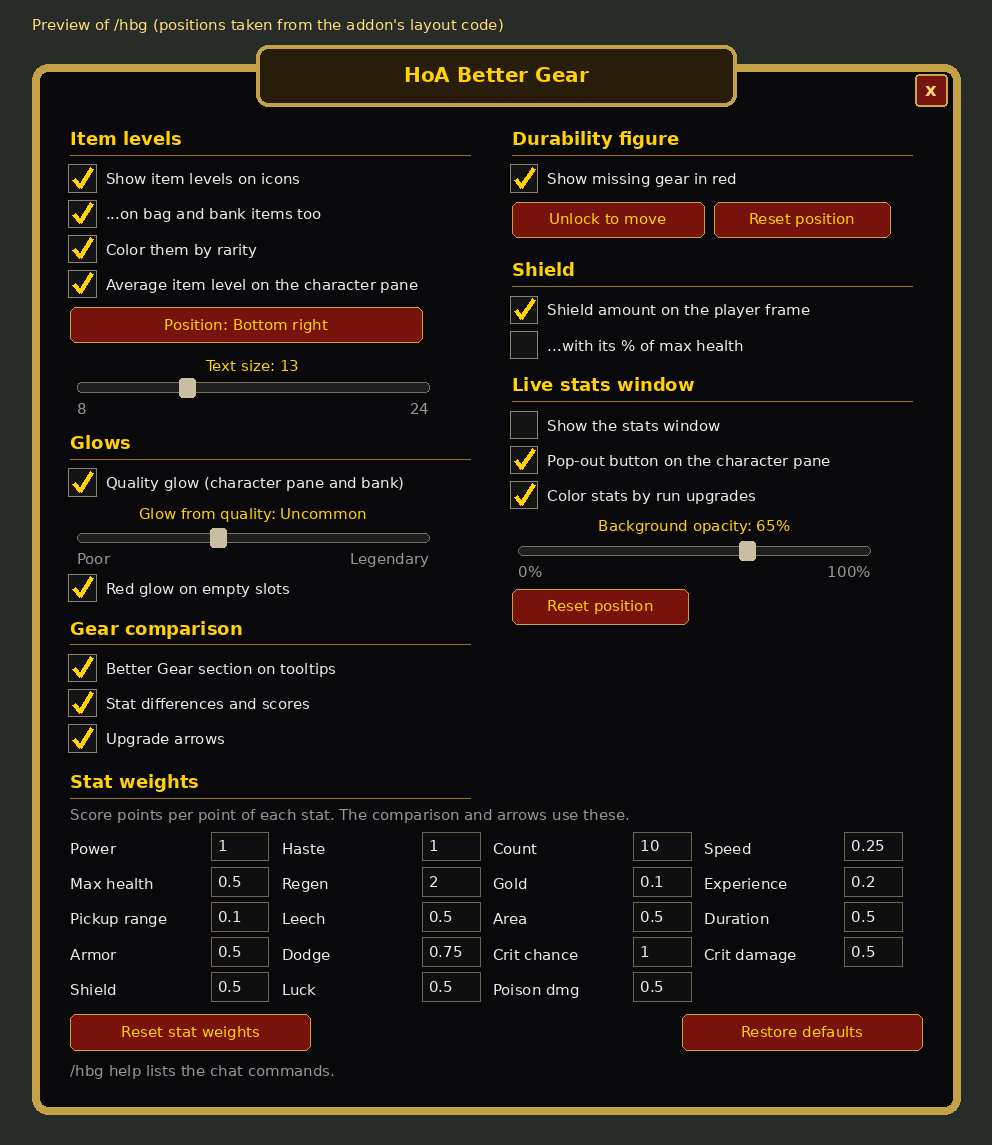
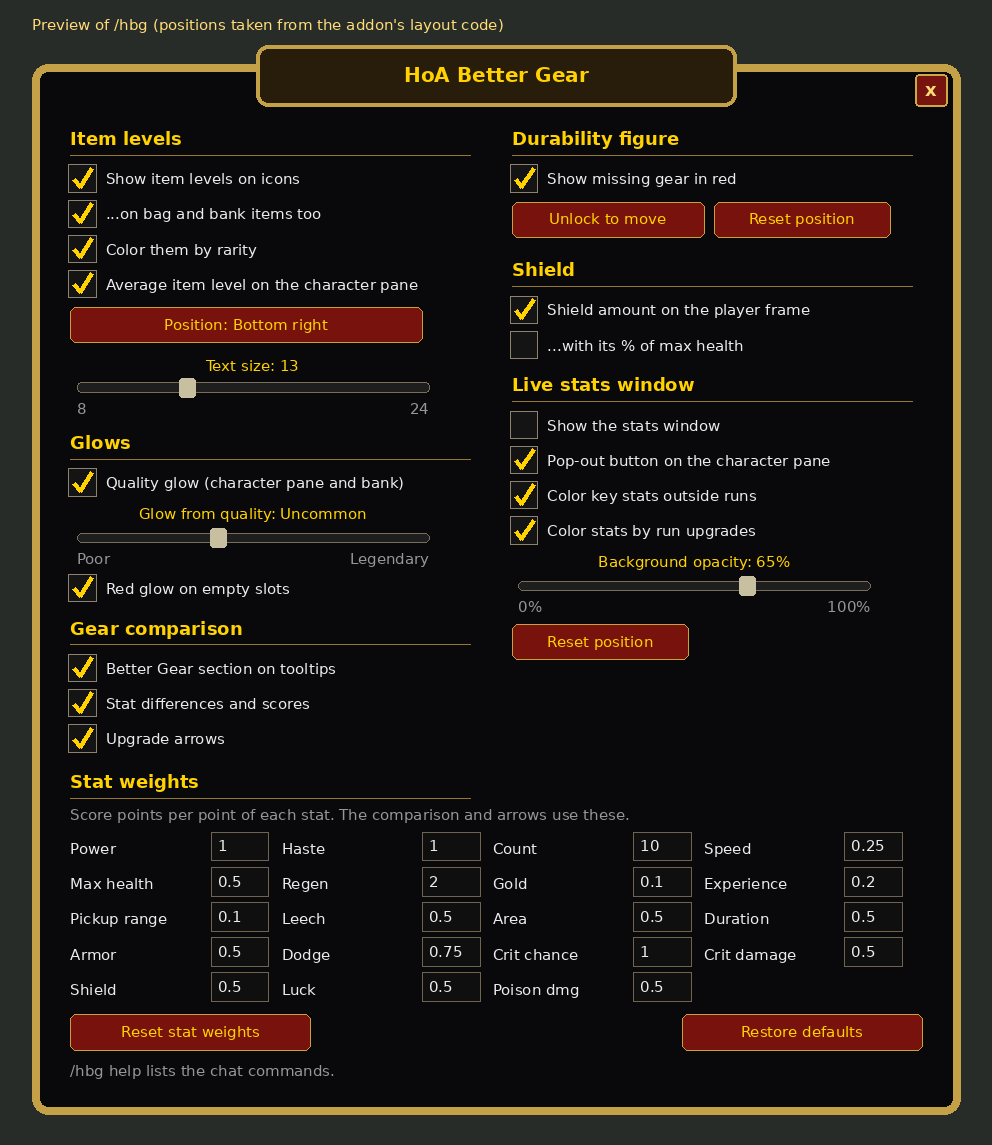
Color key stats by value outside runs
Outside a run, Crit chance/damage turn purple above 100% and orange from
200%; Armor, Dodge and Speed turn green/blue/purple at a quarter, half and
three quarters of their cap (300, 60%, 50%) and orange at it. Other stats
stay white; in a run the run-upgrade colors apply as before. Toggle:
"Color key stats outside runs" in the settings window.

Claude-Session: https://claude.ai/code/session_01QKDwL2YJcTPQk37yLQ8CLT

Changed region(s): [[0.5, 0.4279, 0.8125, 0.5808], [0.8438, 0.4891, 0.875, 0.5502]]

diff --git a/README.md b/README.md
@@ -12,6 +12,7 @@ An addon for **Hordes of Azeroth** that helps you pick better gear:
 - **Gear comparison** (Pawn-style): every gear tooltip, and the **New** card in the loot window ("Wear it, carry it, or salvage it for Valor"), says how the item compares with what you have equipped, as a % upgrade or downgrade plus the difference in each stat.
 - **Exact shield amount**: your current Shield is printed in cyan at the right end of the player frame's health bar (e.g. `+52`, shortened from 1,000 up: `+1.2k`, `+10.5k`, `+105k`, `+1.2m`), next to HoA's cyan shield bar, optionally with its % of your max health.
 - **Run upgrade colors**: during a run, the stats on the character pane and in the live stats window change color as they grow past where they started: green from +5%, blue from +15%, purple from +30%, and orange (legendary) only once a stat is capped (Dodge 60%, Speed 50%, Pickup range 400%, Armor 300 — where its damage reduction maxes out and extra Armor turns into max health, ...). Back to white when the run ends.
+- **Key stat colors outside runs**: outside a run, Crit chance and Crit damage turn purple above 100% and orange from 200%; Armor, Dodge and Speed turn green, blue, then purple as they get a quarter, half and three quarters of the way to their cap (Armor 300, Dodge 60%, Speed 50%), and orange at it. Other stats stay white.
 - **Live stats window**: a small pop-out with the character pane's stats (Power, Haste, Crit, Armor, Shield, ...) that updates in real time during a run, without keeping the character pane open. Open it with the small gold pop-out button just above the stats on the character pane, or `/hbg stats`. Drag it anywhere; it remembers where it was and whether it was open.
 - **Upgrade arrows**: items in your bags, your bank and at the Mythic Quartermaster that would be an upgrade get a green arrow. In the loot window, the New item gets a green arrow and each equipped piece it beats gets a red one.
 
